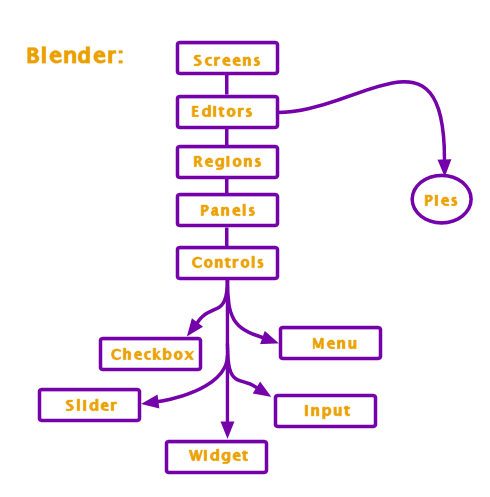
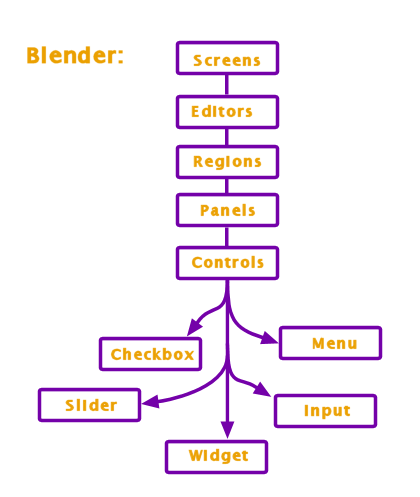
ui button split buttons & menus region move editor type > editors/index region move menu collapse > menus hierachie graphic remove pie

diff --git a/manual/conf.py b/manual/conf.py
@@ -222,7 +222,7 @@ def setup(app):
 #html_use_index = True
 
 # If true, the index is split into individual pages for each letter.
-#html_split_index = False
+html_split_index = True
 
 # If true, links to the reST sources are added to the pages.
 html_show_sourcelink = True

diff --git a/manual/interface/controls/buttons/menus.rst b/manual/interface/controls/buttons/menus.rst
@@ -1,55 +1,13 @@
 
-*****************
-Operators & Menus
-*****************
-
-.. _ui-operation-buttons:
-
-Operation Buttons
-=================
-
-.. figure:: /images/interface_button.png
-   :align: right
-
-   Operation button.
-
-
-These are buttons that perform an operation when clicked with :kbd:`LMB`.
-They can be identified by their gray color in the default color scheme.
-
-
-Text & Search
-=============
-
-.. figure:: /images/interface_text_search.png
-
-   Text and Search.
-
-
-Color Buttons
-=============
-
-.. figure:: /images/interface_color_button.png
-   :align: right
-
-   Color Buttons.
-
-   Without and with alpha.
-
-:kbd:`LMB` color buttons opens the :doc:`/interface/controls/templates/color_picker`.
-Color buttons with an alpha channel are divided in half: On the left the color is shown without alpha and
-on the right the color with alpha drawn over a checker pattern background.
-Colors can be drag and dropped.
-
-
-Menu Buttons
-============
+*****
+Menus
+*****
 
 Blender uses a variety of different menus for accessing options, tools and selecting Data-Blocks.
 
 
-Menu Shortcuts
---------------
+Shortcuts
+=========
 
 - Arrow keys can be used to navigate.
 - Each menu item has an underlined character which can be pressed to activate it.
@@ -59,22 +17,46 @@ Menu Shortcuts
 - Press :kbd:`Return` to activate the selected menu item.
 - Press :kbd:`Esc` to cancel the menu.
 
+.. _ui-header-menu:
 
 Header Menus
-------------
+============
 
 .. figure:: /images/interface_menu_button.png
    :align: right
 
    The Info Editor menu buttons.
 
+Most headers exhibit a set of menus, located immediately next
+to the first *Editor Type* selector.
 Header menus are used to configure the editor and access tools.
+All Menu entries show the relevant shortcut keys, if any.
 
 See :ref:`ui-region-header` for header options.
 
 
+Collapsing Menus
+----------------
+
+Sometimes its helpful to gain some extra horizontal space in the header by collapsing menus,
+this can be accessed from the header context menu,
+simply right click on the header and enable set it to collapsed.
+
+.. list-table::
+
+   * - .. figure:: /images/header_menu_expand.jpg
+          :width: 320px
+
+          Right-click on any of the header menus.
+
+     - .. figure:: /images/header_menu_collapsed.jpg
+          :width: 320px
+
+          Access the menu from the collapsed icon.
+
+ 
 Pop-Up Menus
-------------
+============
 
 .. figure:: /images/interface_popup-menu.jpg
    :align: right
@@ -96,7 +78,7 @@ Pop-ups can be moved by dragging there title.
 
 
 Context Menu
-------------
+============
 
 Context menus are pop-ups opened with the :kbd:`RMB`.
 Only the common options are listed below.
@@ -130,7 +112,7 @@ Edit Translation
 
 
 Pie Menus
----------
+=========
 
 A pie menu is a menu, whose items are spread radially around the mouse.
 Pie menus has to be activated in the User Preferences through
@@ -143,7 +125,7 @@ Pie menus has to be activated in the User Preferences through
 
 
 Interaction
-^^^^^^^^^^^
+-----------
 
 The pie menu is spawned by a key press.
 

diff --git a/manual/interface/window_system/regions.rst b/manual/interface/window_system/regions.rst
@@ -26,6 +26,8 @@ Header
 A header is a small horizontal strip with a lighter gray background, 
 which sits either at the top or bottom of the area.
 All editors have a header acting as a container for menus and commonly used tools.
+:ref:`Menus <ui-header-menu>` and buttons will change with the editor type and
+the selected object and mode.
 
 
 .. figure:: /images/interface-window_system-headers-header_example.jpg
@@ -38,51 +40,6 @@ the header of its editor changes to a slightly lighter shade of gray.
 This means that it is "focused".
 All hotkeys you press will now affect the contents of this editor.
 The header can be hidden with :kbd:`Alt-F9`.
-
-.. move to Editor introduction?
-
-Editor Type Selector
---------------------
-
-:kbd:`LMB` clicking on the first icon at the left side of a header allows changing the Editor type.
-Every area in Blender may contain any type of editor,
-allowing you to customize your window layout to your own work flows.
-
-
-.. move to menu buttons?
-
-Menus and Buttons
------------------
-
-Most headers exhibit a set of menus, located immediately next
-to the first *Editor Type* selector.
-
-Menus allow you to directly access many features and commands,
-so just look through them to see what is there.
-All Menu entries show the relevant shortcut keys, if any.
-
-Menus and buttons will change with *Editor Type* and the selected object and mode.
-They only show the actions that can be performed.
-
-
-Collapsing Menus
-^^^^^^^^^^^^^^^^
-
-Sometimes its helpful to gain some extra horizontal space in the header by collapsing menus,
-this can be accessed from the header context menu,
-simply right click on the header and enable set it to collapsed.
-
-.. list-table::
-
-   * - .. figure:: /images/header_menu_expand.jpg
-          :width: 320px
-
-          Right-click on any of the header menus.
-
-     - .. figure:: /images/header_menu_collapsed.jpg
-          :width: 320px
-
-          Access the menu from the collapsed icon.
 
 
 Tool Shelf

diff --git a/manual/interface/controls/buttons/buttons.rst b/manual/interface/controls/buttons/buttons.rst
@@ -1,0 +1,42 @@
+
+*******
+Buttons
+*******
+
+.. _ui-operation-buttons:
+
+Operation Buttons
+=================
+
+.. figure:: /images/interface_button.png
+   :align: right
+
+   Operation button.
+
+
+These are buttons that perform an operation when clicked with :kbd:`LMB`.
+They can be identified by their gray color in the default color scheme.
+
+
+Text & Search
+=============
+
+.. figure:: /images/interface_text_search.png
+
+   Text and Search.
+
+
+Color Buttons
+=============
+
+.. figure:: /images/interface_color_button.png
+   :align: right
+
+   Color Buttons.
+
+   Without and with alpha.
+
+:kbd:`LMB` color buttons opens the :doc:`/interface/controls/templates/color_picker`.
+Color buttons with an alpha channel are divided in half: On the left the color is shown without alpha and
+on the right the color with alpha drawn over a checker pattern background.
+Colors can be drag and dropped.

diff --git a/manual/editors/index.rst b/manual/editors/index.rst
@@ -7,11 +7,12 @@
 .. figure:: /images/editors_menu.png
    :align: right
 
-   The Editor selection menu.
+   The Editor Type selector.
 
-Blender provides a number of different *Editor* types for displaying and modifying different aspects of data.
+Blender provides a number of different editors for displaying and modifying different aspects of data.
 
-It is also possible to open the same Editor type multiple times to have different views on the same data.
+The *Editor Type* selector, the first button at the left side of a header, allows :kbd:`LMB` you to change the editor in that area.
+Every area in Blender may contain any type of editor and it is also possible to open the same type multiple times.
 
 There is also documentation on the :doc:`general interface </interface/index>` of editors.
 

diff --git a/manual/interface/controls/buttons/index.rst b/manual/interface/controls/buttons/index.rst
@@ -9,7 +9,8 @@ The different types of controls are described below.
 .. toctree::
    :maxdepth: 1
 
-   operators_menus.rst
+   buttons.rst
+   menus.rst
    toggle_radio.rst
    number.rst
    eye_dropper.rst

diff --git a/manual/interface/controls/buttons/number.rst b/manual/interface/controls/buttons/number.rst
@@ -1,5 +1,4 @@
 .. rename to numeric input?
-.. add text, search?
 
 **************
 Number Buttons
